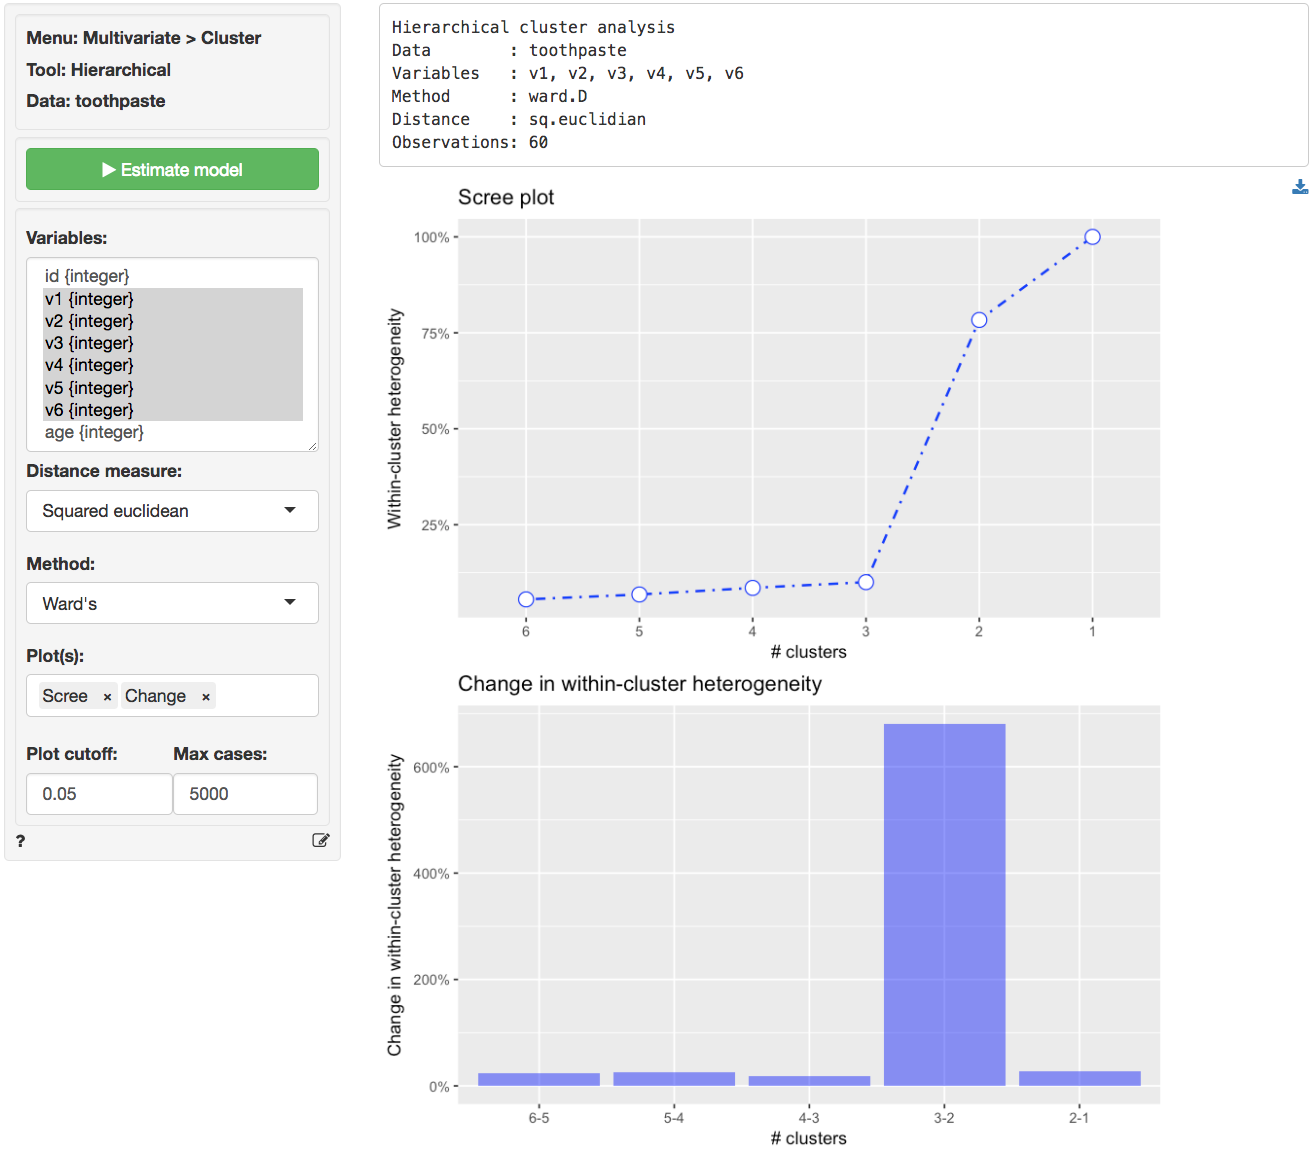
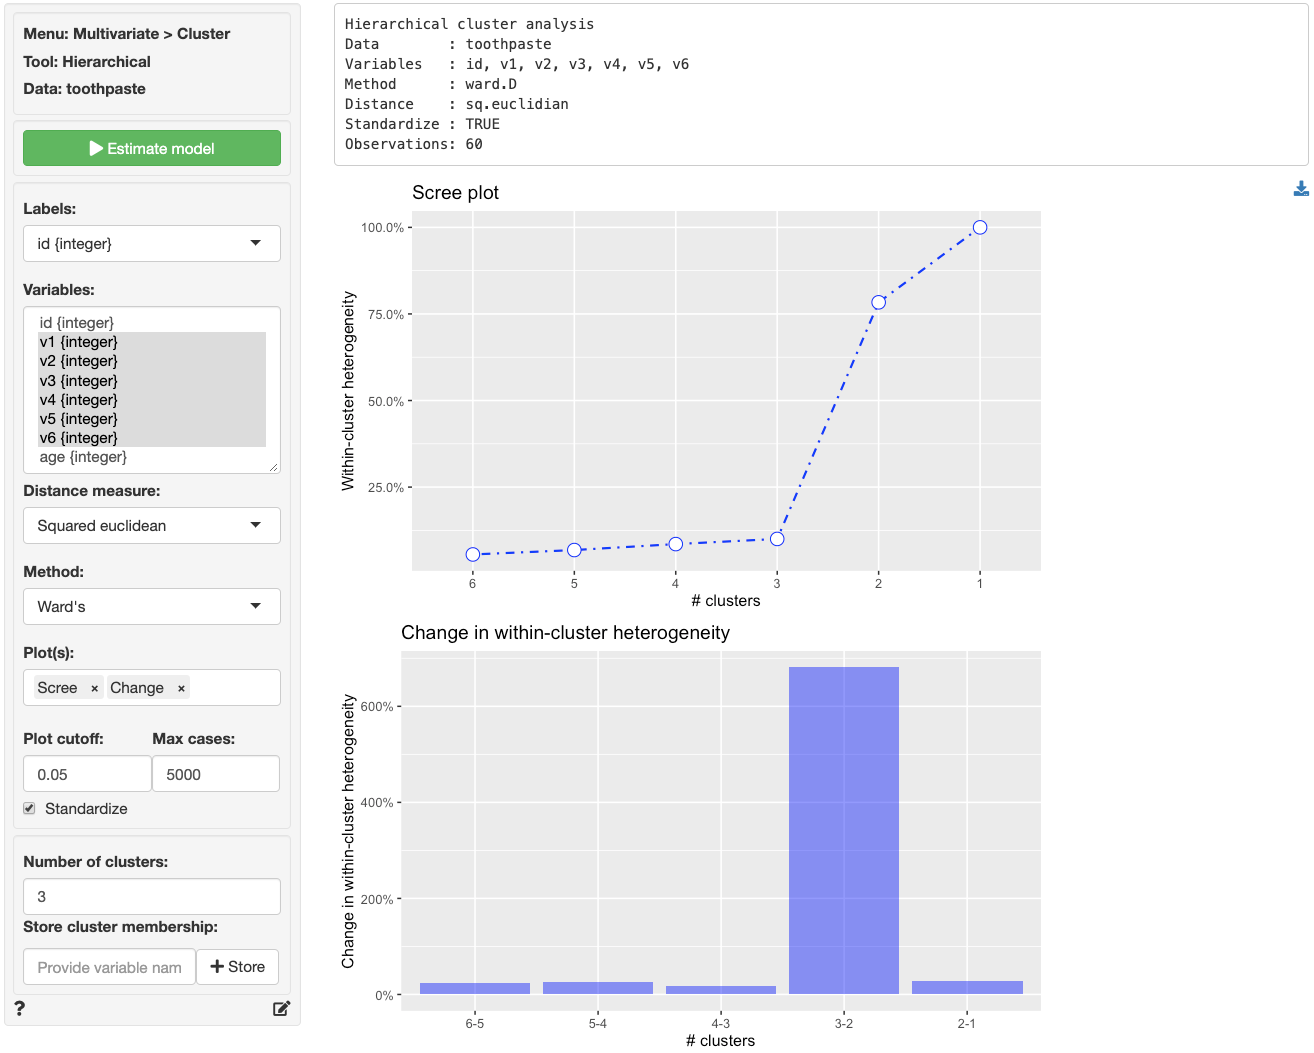
store

diff --git a/inst/app/www/js/store.js b/inst/app/www/js/store.js
@@ -3,6 +3,8 @@ $(document).keydown(function(event) {
     $("#pm_store").click();
   } else if ($("#ff_store_name").is(":focus") && event.keyCode == 13) {
     $("#ff_store").click();
+  } else if ($("#hc_store_name").is(":focus") && event.keyCode == 13) {
+    $("#hc_store").click();
   } else if ($("#km_store_name").is(":focus") && event.keyCode == 13) {
     $("#km_store").click();
   } else if ($("#ca_store_pred_name").is(":focus") && event.keyCode == 13) {

diff --git a/inst/app/tools/help/hclus.md b/inst/app/tools/help/hclus.md
@@ -18,9 +18,14 @@ Another plot that can be used to determine the number of segments is a scree-plo
 
 <p align="center"><img src="figures_multivariate/hclus_scree.png"></p>
 
-Reading the plot from left-to-right we see that within-segment heterogeneity increases sharply when we move from 3 to 2 segments. This is also clear from the `Change in within-cluster heterogeneity` plot (i.e., `Change`). To avoid creating a heterogeneous segment we, again, choose 3 segments. Now that we have determined the appropriate number of segments to extract we can use _Cluster > K-clustering_ to generate the final cluster solution.
+Reading the plot from left-to-right we see that within-segment heterogeneity increases sharply when we move from 3 to 2 segments. This is also clear from the `Change in within-cluster heterogeneity` plot (i.e., `Change`). To avoid creating a heterogeneous segment we, again, choose 3 segments. Now that we have determined the appropriate number of segments to extract we can use either _Cluster > Hierarchical_ or  _Cluster > K-clustering_ to generate the final cluster solution.
 
 To download the plots click the download button on the top-right of the screen.
+
+## Additional options
+
+* By default, data will be standardized before it is analyzed. To pass data in its raw form to the estimation algorithm, make sure the `Standardize` box is un-checked.
+* Hierarchical cluster-analysis (HC) generates numerous clustering solutions. The highest number of clusters is equal to the number of observations in the data (e.g., ever respondent is treated as a separate cluster). The lowest number of clusters evaluated, is equal to 1 (e.g., all respondent are grouped together in a single cluster). Although, HC analysis is often used as a diagnostic tool before generating a final solution using, e.g., K-means, we can also store any specific clustering solution generated using HC. To accomplish this, first choose the `Number of clusters`, then provide a name for the variable that will contain cluster assignment information, and finally, press the `Store` button. 
 
 ### Report > Rmd
 
